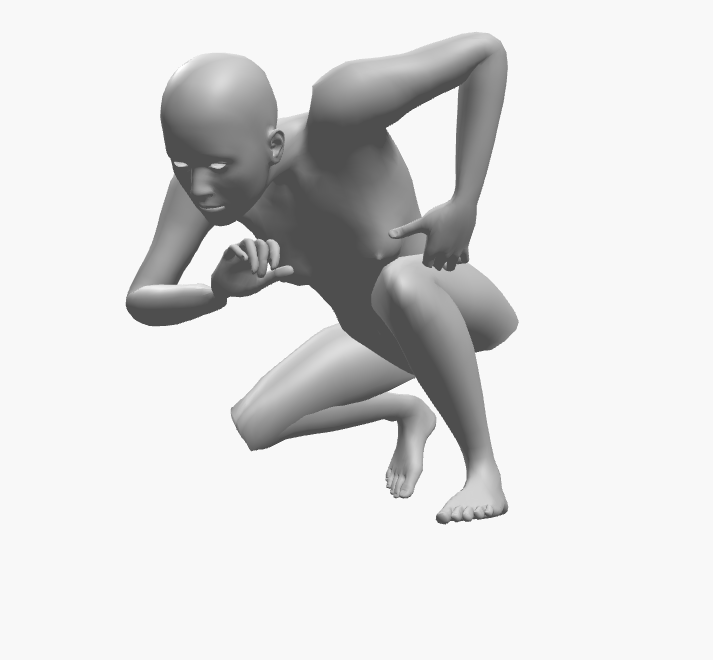
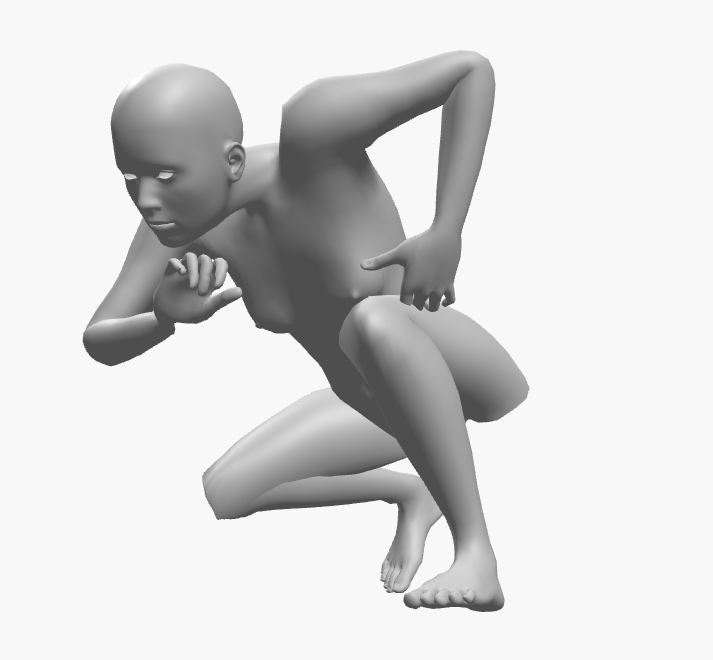
fix LikeJPose3d.

Changed region(s): [[0.0926, 0.0303, 0.7405, 0.9394]]

diff --git a/web/likejpose3d.html b/web/likejpose3d.html
@@ -145,6 +145,16 @@
                 <div class="modal-title" data-i18n="modalPoseTitle">📂 Select Pose to Load</div>
                 <button class="modal-close" id="btn-close-modal">✕</button>
             </div>
+            <!-- 新增 Checkbox 控制區塊 -->
+            <div
+                style="padding: 10px 16px 4px 16px; border-bottom: 1px solid #e2e8f0; display: flex; align-items: center; background: #fafafa;">
+                <label
+                    style="font-size: 13px; cursor: pointer; display: flex; align-items: center; gap: 6px; user-select: none; color: #334155;">
+                    <input type="checkbox" id="chk-keep-current-model"
+                        style="cursor: pointer; width: 15px; height: 15px;">
+                    <span data-i18n="chkApplyToCurrentModel">嘗試套用至目前模型</span>
+                </label>
+            </div>
             <div class="modal-body" id="pose-gallery">
             </div>
         </div>
@@ -1254,35 +1264,83 @@ Scale: X:${scale.x.toFixed(2)} Y:${scale.y.toFixed(2)} Z:${scale.z.toFixed(2)}
             }
         });
 
-        async function loadPoseConfigAndModel(poseItem) {
+        async function loadPoseConfigAndModel(poseItem, keepCurrentModel = false) {
             try {
                 const res = await fetch(poseItem.json_url);
                 const loadedConfig = await res.json();
 
-                let targetModelName = poseItem.model_folder;
-                if (!targetModelName.endsWith('.glb') && !targetModelName.endsWith('.gltf')) {
-                    targetModelName += '.glb';
+                // 判斷是否「僅套用至目前模型」
+                if (keepCurrentModel && AppState.currentModel) {
+                    // 1. 記錄當前模型名稱、預設屬性以及 XYZ 軸對齊/偏移設定
+                    const currentModelName = AppState.config.modelName;
+                    const currentIsDefault = AppState.config.isDefaultModel;
+                    // 複製保存當前的 XYZ 軸旋轉對齊設定（避免被 loadedConfig 覆蓋）
+                    const currentRotationOffset = AppState.config.rotationOffset
+                        ? { ...AppState.config.rotationOffset }
+                        : { x: 0, y: 0, z: 0 };
+
+                    // 2. 合併 JSON 姿態設定
+                    AppState.config = { ...AppState.config, ...loadedConfig };
+
+                    // 3. 還原原本模型的名稱與 XYZ 軸對齊設定
+                    AppState.config.modelName = currentModelName;
+                    AppState.config.isDefaultModel = currentIsDefault;
+                    AppState.config.rotationOffset = currentRotationOffset; // 保留原本模型的 XYZ 軸對齊
+
+                    // 更新 UI 介面數值與維持當前模型的軸向偏移
+                    updateUIFromConfig();
+                    applyModelOffset();
+
+                    // 套用骨骼姿態 (Pose)
+                    if (loadedConfig.pose && typeof applyPoseData === 'function') {
+                        applyPoseData(loadedConfig.pose);
+                    }
+
+                    // 套用 Shape Keys 表情
+                    if (loadedConfig.shapeKeys && typeof applyShapeKeysData === 'function') {
+                        applyShapeKeysData(loadedConfig.shapeKeys);
+                    }
+
+                    // 套用相機角度
+                    if (loadedConfig.camera && typeof applyCameraData === 'function') {
+                        applyCameraData(loadedConfig.camera);
+                    }
+
+                    focusFullBody(false);
+
+                    // 發送變更通知與更新畫面
+                    notifyConfigChange();
+                    sendPoseToComfyUI();
+                    if (AppState.renderer && AppState.scene && AppState.camera) {
+                        AppState.renderer.render(AppState.scene, AppState.camera);
+                    }
+                } else {
+                    // 預設行為：連同 JSON 設定的模型與對齊設定一同載入
+                    let targetModelName = poseItem.model_folder;
+                    if (!targetModelName.endsWith('.glb') && !targetModelName.endsWith('.gltf')) {
+                        targetModelName += '.glb';
+                    }
+
+                    let matchedOpt = Array.from(modelSelect.options).find(opt => opt.value === targetModelName || opt.value.startsWith(poseItem.model_folder));
+                    let isDefault = poseItem.is_default;
+
+                    if (matchedOpt) {
+                        targetModelName = matchedOpt.value;
+                        isDefault = matchedOpt.dataset.isDefault === "true";
+                    }
+
+                    AppState.config = { ...AppState.config, ...loadedConfig };
+                    AppState.config.modelName = targetModelName;
+                    AppState.config.isDefaultModel = isDefault;
+
+                    if (!AppState.config.rotationOffset) AppState.config.rotationOffset = { x: 0, y: 0, z: 0 };
+
+                    const targetUrl = getModelApiUrl(targetModelName, isDefault);
+                    loadModelFromUrl(targetUrl, targetModelName, true);
                 }
-
-                let matchedOpt = Array.from(modelSelect.options).find(opt => opt.value === targetModelName || opt.value.startsWith(poseItem.model_folder));
-                let isDefault = poseItem.is_default;
-
-                if (matchedOpt) {
-                    targetModelName = matchedOpt.value;
-                    isDefault = matchedOpt.dataset.isDefault === "true";
-                }
-
-                AppState.config = { ...AppState.config, ...loadedConfig };
-                AppState.config.modelName = targetModelName;
-                AppState.config.isDefaultModel = isDefault;
-
-                if (!AppState.config.rotationOffset) AppState.config.rotationOffset = { x: 0, y: 0, z: 0 };
-
-                const targetUrl = getModelApiUrl(targetModelName, isDefault);
-                loadModelFromUrl(targetUrl, targetModelName, true);
 
             } catch (e) {
-                alert("載入姿態失敗: " + e);
+                alert("Failed to load pose: " + e);
             }
         }
 

diff --git a/web/likejpose3d_modal.js b/web/likejpose3d_modal.js
@@ -364,6 +364,13 @@ const btnCloseModal = document.getElementById('btn-close-modal');
 
 if (btnLoadPose) {
     btnLoadPose.addEventListener('click', async () => {
+        // 每次開啟彈窗時，重置 Checkbox 為未勾選
+        const chkKeepModel = document.getElementById('chk-keep-current-model');
+        if (chkKeepModel) {
+            chkKeepModel.checked = false;
+        }
+
+        if (poseModal) poseModal.classList.add('active');
         if (poseGallery) {
             poseGallery.innerHTML = `<div style="grid-column: 1/-1; text-align: center; color: #64748b; padding: 20px;">Loading...</div>`;
         }
@@ -393,8 +400,12 @@ if (btnLoadPose) {
                     `;
 
                     card.addEventListener('click', () => {
+                        // 讀取 Checkbox 是否被勾選
+                        const chkKeepModel = document.getElementById('chk-keep-current-model');
+                        const keepCurrentModel = chkKeepModel ? chkKeepModel.checked : false;
+
                         if (typeof loadPoseConfigAndModel === 'function') {
-                            loadPoseConfigAndModel(item);
+                            loadPoseConfigAndModel(item, keepCurrentModel);
                         }
                         if (poseModal) poseModal.classList.remove('active');
                     });

diff --git a/web/likejpose3d_state.js b/web/likejpose3d_state.js
@@ -71,6 +71,7 @@ const i18n = {
         emptyVnccs: "未找到任何 VNCCS 姿勢檔",
         errorLoadVnccs: "無法讀取 VNCCS 姿勢庫: ",
         msgParseVnccsError: "無法解析 VNCCS 姿態檔",
+        chkApplyToCurrentModel: "嘗試套用至目前模型",
     },
     en: {
         titleModelFile: "📁 Model File",
@@ -139,6 +140,7 @@ const i18n = {
         emptyVnccs: "No VNCCS poses found.",
         errorLoadVnccs: "Failed to load VNCCS poses: ",
         msgParseVnccsError: "Failed to parse VNCCS pose file",
+        chkApplyToCurrentModel: "Try apply to current model",
     }
 };
 
